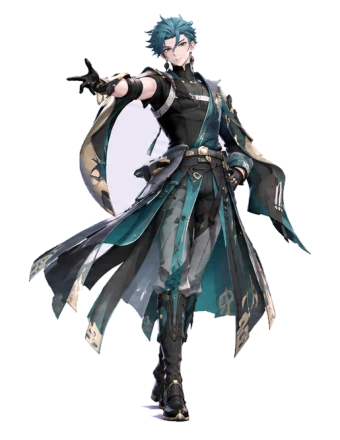
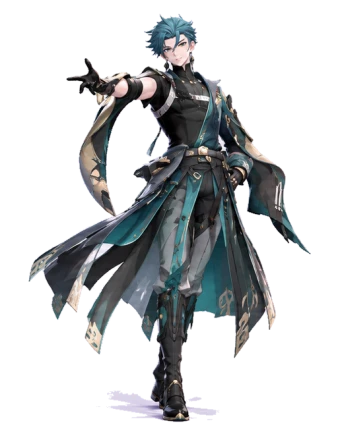
2.73: xem trước vật phẩm trong bảng Có thể trúng gì, tách nền standee sạch hơn

diff --git a/src/ui/screens/gacha.ts b/src/ui/screens/gacha.ts
@@ -8,7 +8,9 @@ import { render } from "../app";
 import { coinPill, esc, modal, toast } from "../dom";
 import { gachaArt, playReveal } from "../gachafx";
 import { hydratePortraits } from "../portrait";
+import { mountTurntable } from "../../scene/glbview";
 
+let unmount = () => { }, fromPool = false;
 let tab: "summon" | "bag" = "summon", filter: GachaKind | "all" = "all", busy = false, poolR: Rarity = "common";
 const BACK = `<button class="rbtn back" data-go="/" aria-label="Về tiệm"><svg width="16" height="16" viewBox="0 0 16 16" aria-hidden="true"><path d="M10 3 L5 8 L10 13" stroke="#C07A8C" stroke-width="2.6" fill="none" stroke-linecap="round" stroke-linejoin="round"/></svg></button>`;
 
@@ -52,22 +54,26 @@ export function gachaHTML() {
 
 function detail(id: string) {
   const it = gachaItem(id); if (!it) return;
-  const own = hasItem(id), R = RARITY[it.rarity];
-  modal(`<div class="gdet r-${it.rarity}" style="--rc:${R.c};--rc2:${R.c2}"><span class="gtag">${R.n}</span><div class="gimg big ${own ? "" : "dim"}">${gachaArt(it, 130, true)}</div></div>
+  unmount();
+  const own = hasItem(id), R = RARITY[it.rarity], live = it.mascot?.model && !it.mascot.art;       // có tranh full thì hiện tranh, không thì model 3D xoay
+  modal(`<div class="gdet r-${it.rarity}" style="--rc:${R.c};--rc2:${R.c2}"><span class="gtag">${R.n}</span>${it.full ? `<img class="gfull" src="/gacha/full-${it.full}.webp" alt="" draggable="false">` : `<div class="gimg big ${own ? "" : "dim"}" ${live ? `style="position:relative;width:200px;height:200px;margin:auto"` : ""}>${live ? gachaArt(it, 200, true) : gachaArt(it, 130, true)}</div>`}</div>
     <h2>${esc(it.n)}</h2><p class="sub">${KIND_NAME[it.kind]} · ${R.n} · ${own ? `đã có x${countOf(id)}` : "chưa có"}</p>
     <p class="gdesc">${esc(it.desc)}${it.recipe ? ` Trùng thêm thì thành thạo (tối đa +${Math.round(MASTERY_STEP * MASTERY_MAX * 100)}% giá).` : ""}${it.decor ? " Dùng ở Cửa hàng, mục Trang trí." : ""}${own && it.recipe ? ` Thành thạo ${masteryOf(id)}/${MASTERY_MAX}.` : ""}</p>
-    <div class="mbtns">${own && it.mascot ? (S.gacha.mascot === id ? `<button class="b3" disabled>Đang đồng hành</button>` : `<button class="b3" data-gact="mascot:${id}">Cho đồng hành</button>`) : ""}<button class="b3 w" data-close>Đóng</button></div>`);
+    <div class="mbtns">${own && it.mascot ? (S.gacha.mascot === id ? `<button class="b3" disabled>Đang đồng hành</button>` : `<button class="b3" data-gact="mascot:${id}">Cho đồng hành</button>`) : ""}${fromPool ? `<button class="b3" data-gact="pool:${it.rarity}">← Danh sách</button>` : ""}<button class="b3 w" data-close>Đóng</button></div>`);
   hydratePortraits();
+  const host = live ? document.querySelector<HTMLElement>(".gdet .gimg.big") : null;
+  if (host && it.mascot?.model) { host.querySelector<HTMLElement>(".gart")?.style.setProperty("opacity", ".0"); unmount = mountTurntable(host, it.mascot.model, 200); }
 }
 
 /** xem trước toàn bộ vật phẩm theo độ hiếm: tên, lợi ích và tỷ lệ trúng từng món */
 function poolSheet() {
+  unmount(); fromPool = true;
   const R = RARITY[poolR], list = itemsOf(poolR), each = R.w / list.length;
   modal(`<h2>Có thể trúng gì?</h2><p class="sub">Tỷ lệ ${R.w}% cho nhóm ${R.n} · mỗi món khoảng ${each.toFixed(1)}%</p>
     <div class="seg rseg">${RARITIES.map(r => `<button class="${r === poolR ? "on" : ""}" data-gact="pool:${r}">${RARITY[r].n}</button>`).join("")}</div>
     <div class="gpl">${list.map(it => `<div class="gpr r-${poolR}" style="--rc:${R.c};--rc2:${R.c2}" data-gact="card:${it.id}"><div class="gimg">${gachaArt(it, 50)}</div>
       <div class="gpi"><b>${esc(it.n)}</b><small>${KIND_NAME[it.kind]} · ${esc(it.desc)}</small></div><em>${hasItem(it.id) ? `x${countOf(it.id)}` : "mới"}</em></div>`).join("")}</div>
-    <p class="phint">Bảo hiểm: ${PITY_RARE} lần chắc chắn có Hiếm trở lên, ${PITY_ULTRA} lần chắc chắn có Cực hiếm.</p>
+    <p class="phint">Chạm vào một món để xem trước (tranh/3D, chỉ số). Bảo hiểm: ${PITY_RARE} lần chắc chắn có Hiếm trở lên, ${PITY_ULTRA} lần chắc chắn có Cực hiếm.</p>
     <div class="mbtns"><button class="b3" data-close>Đóng</button></div>`);
   hydratePortraits();
 }
@@ -78,7 +84,7 @@ export async function gachaAct(act: string) {
   if (a === "tab") { tab = v as typeof tab; sfx("click"); return render(); }
   if (a === "filter") { filter = v as typeof filter; sfx("click"); return render(); }
   if (a === "pool") { poolR = (v as Rarity) || poolR; sfx("click"); return poolSheet(); }
-  if (a === "card") { sfx("click"); return detail(v!); }
+  if (a === "card") { sfx("click"); fromPool = !!document.querySelector(".gpl .gpr[data-gact=\"card:" + v + "\"]"); return detail(v!); }
   if (a === "mascot") { if (setMascot(v!)) { sfx("level"); toast("Đã cho đồng hành"); } render(); return detail(v!); }
   if (a === "free") { if (claimFreeTicket()) { sfx("coin"); toast("+1 vé triệu hồi"); } return render(); }
   if (a === "buy1" || a === "buy10") { if (buyTickets(a === "buy1" ? 1 : 10)) { sfx("coin"); toast(`+${a === "buy1" ? 1 : 10} vé`); } else toast("Không đủ xu"); return render(); }

diff --git a/src/content/gacha.ts b/src/content/gacha.ts
@@ -66,10 +66,10 @@ export const GACHA_ITEMS: GachaItem[] = [
   { id: "m_thienthan", kind: "mascot", rarity: "ultra", n: "Mèo Thiên Thần", desc: "Đồng hành: giá +10%, tip +8%, chờ lâu hơn 10%, thêm 1 khách mỗi ca", mascot: { img: "angel", fx: { price: 0.1, tip: 0.08, pat: 0.1, cust: 1 } } },
   { id: "m_cacao", kind: "mascot", rarity: "common", n: "Mèo Béo", desc: "Đồng hành 3D trong tiệm: tip +5%", mascot: { img: "cacao_cat", model: "cacao_cat", fx: { tip: 0.05 } } },
   { id: "m_xiem", kind: "mascot", rarity: "rare", n: "Mèo Xiêm", desc: "Đồng hành 3D trong tiệm: tip +5%, giá bánh +5%", mascot: { img: "siamese", model: "siamese", fx: { tip: 0.05, price: 0.05 } } },
-  { id: "m_baizhi", kind: "mascot", rarity: "rare", n: "Bạch Chi", desc: "Hộ vệ 3D trong tiệm: giá bánh +8%, khách chờ lâu hơn 10%", mascot: { img: "baizhi", model: "baizhi", art: true, stand: true, fx: { price: 0.08, pat: 0.1 } } },
-  { id: "m_chisa", kind: "mascot", rarity: "rare", n: "Chisa", desc: "Hộ vệ 3D trong tiệm: tip +10%, khách chờ lâu hơn 15%", mascot: { img: "chisa", model: "chisa", art: true, stand: true, fx: { tip: 0.1, pat: 0.15 } } },
-  { id: "m_jiyan", kind: "mascot", rarity: "ultra", n: "Jiyan", desc: "Hộ vệ 3D trong tiệm: giá +10%, tip +8%, chờ lâu hơn 10%", mascot: { img: "jiyan", model: "jiyan", art: true, stand: true, fx: { price: 0.1, tip: 0.08, pat: 0.1 } } },
-  { id: "m_zhongli", kind: "mascot", rarity: "ultra", n: "Zhongli", desc: "Hộ vệ 3D trong tiệm: giá +12%, tip +8%, thêm 1 khách mỗi ca", mascot: { img: "zhongli", model: "zhongli", art: true, stand: true, fx: { price: 0.12, tip: 0.08, cust: 1 } } },
+  { id: "m_baizhi", kind: "mascot", rarity: "rare", n: "Bạch Chi", desc: "Đứng trong tiệm dạng standee: giá bánh +8%, khách chờ lâu hơn 10%", mascot: { img: "baizhi", model: "baizhi", art: true, stand: true, fx: { price: 0.08, pat: 0.1 } } },
+  { id: "m_chisa", kind: "mascot", rarity: "rare", n: "Chisa", desc: "Đứng trong tiệm dạng standee: tip +10%, khách chờ lâu hơn 15%", mascot: { img: "chisa", model: "chisa", art: true, stand: true, fx: { tip: 0.1, pat: 0.15 } } },
+  { id: "m_jiyan", kind: "mascot", rarity: "ultra", n: "Jiyan", desc: "Đứng trong tiệm dạng standee: giá +10%, tip +8%, chờ lâu hơn 10%", mascot: { img: "jiyan", model: "jiyan", art: true, stand: true, fx: { price: 0.1, tip: 0.08, pat: 0.1 } } },
+  { id: "m_zhongli", kind: "mascot", rarity: "ultra", n: "Zhongli", desc: "Đứng trong tiệm dạng standee: giá +12%, tip +8%, thêm 1 khách mỗi ca", mascot: { img: "zhongli", model: "zhongli", art: true, stand: true, fx: { price: 0.12, tip: 0.08, cust: 1 } } },
   { id: "m_phuonghoang", kind: "mascot", rarity: "ultra", n: "Phượng Hoàng", desc: "Linh vật bay 3D trong tiệm: giá +10%, tip +10%, chờ lâu hơn 10%, thêm 1 khách mỗi ca", mascot: { img: "phoenix", model: "phoenix", art: true, fx: { price: 0.1, tip: 0.1, pat: 0.1, cust: 1 } } }
 ];
 /* tranh minh hoạ do người chơi cung cấp */

diff --git a/src/content/roadmap.ts b/src/content/roadmap.ts
@@ -69,6 +69,7 @@ export const PHASES: Phase[] = [
 /* "Có gì mới": bản mới nhất ở trên cùng */
 export interface Release { v: string; date: string; notes: string[] }
 export const CHANGELOG: Release[] = [
+  { v: "2.73", date: "05/10/2026", notes: ["Bảng Có thể trúng gì?: chạm vào món để xem trước (tranh full hoặc 3D xoay, chỉ số, mô tả) trước khi quay, có nút quay lại danh sách", "Tách nền lại 4 standee nhân vật cho viền sạch hơn"] },
   { v: "2.72", date: "05/10/2026", notes: ["Jiyan, Bạch Chi, Chisa, Zhongli đứng trong tiệm dạng standee theo đúng dáng đứng bạn đưa (tách nền), luôn quay mặt về phía camera, thay cho model 3D dang tay chữ T", "Bỏ 4 model 3D dang tay khỏi game (nhẹ hơn khoảng 12MB)"] },
   { v: "2.71", date: "05/10/2026", notes: ["Jiyan và Phượng Hoàng cũng hiện tranh minh hoạ full lúc triệu hồi rồi thu nhỏ vào thẻ"] },
   { v: "2.70", date: "05/10/2026", notes: ["Nâng bản để máy nhận bản mới của Gacha: video summon giữ độ phân giải gốc, tranh minh hoạ full lúc triệu hồi (Lynae, Bạch Chi, Chisa, Zhongli), Siro đứng yên không còn quay vòng"] },

diff --git a/src/scene/glbview.ts b/src/scene/glbview.ts
@@ -13,7 +13,7 @@ export function mountTurntable(host: HTMLElement, modelId: string, px: number): 
   const cam = new THREE.PerspectiveCamera(30, 1, .1, 50), dist = hh / 2 / Math.tan(Math.PI / 12) * 1.35, cy = hh / 2;
   cam.position.set(0, cy + hh * .1, dist); cam.lookAt(0, cy, 0);
   let raf = 0, t0 = performance.now(), dead = false;
-  const loop = (now: number) => { if (dead) return; raf = requestAnimationFrame(loop); const t = (now - t0) / 1000; spin.rotation.y = Math.sin(t * .9) * .7; m.update(t); r.render(scene, cam); };
+  const loop = (now: number) => { if (dead) return; if (!cv.isConnected) { dead = true; r.dispose(); return; } raf = requestAnimationFrame(loop); const t = (now - t0) / 1000; spin.rotation.y = Math.sin(t * .9) * .7; m.update(t); r.render(scene, cam); };
   raf = requestAnimationFrame(loop);
   return () => { dead = true; cancelAnimationFrame(raf); r.dispose(); cv.remove(); };
 }

diff --git a/src/styles/main.css b/src/styles/main.css
@@ -1457,3 +1457,6 @@ button.cm{position:relative}
 .gh-item .gart.mas{background:none;border-radius:0}
 .gh-item .gart.mas.art img{-webkit-mask-image:none;mask-image:none;border-radius:22px;object-fit:cover;box-shadow:0 0 0 3px var(--rc2),0 0 30px color-mix(in srgb,var(--rc) 70%,transparent)}
 .gh-item .gart.mas img{-webkit-mask-image:radial-gradient(ellipse 52% 54% at 50% 50%,#000 62%,transparent 100%);mask-image:radial-gradient(ellipse 52% 54% at 50% 50%,#000 62%,transparent 100%)}
+
+.gdet .gfull{display:block;max-width:100%;max-height:46vh;margin:6px auto 0;border-radius:16px;box-shadow:0 0 0 3px var(--rc2),0 0 28px color-mix(in srgb,var(--rc) 60%,transparent)}
+.gdet .gimg.big .gh-3d{border-radius:12px}
